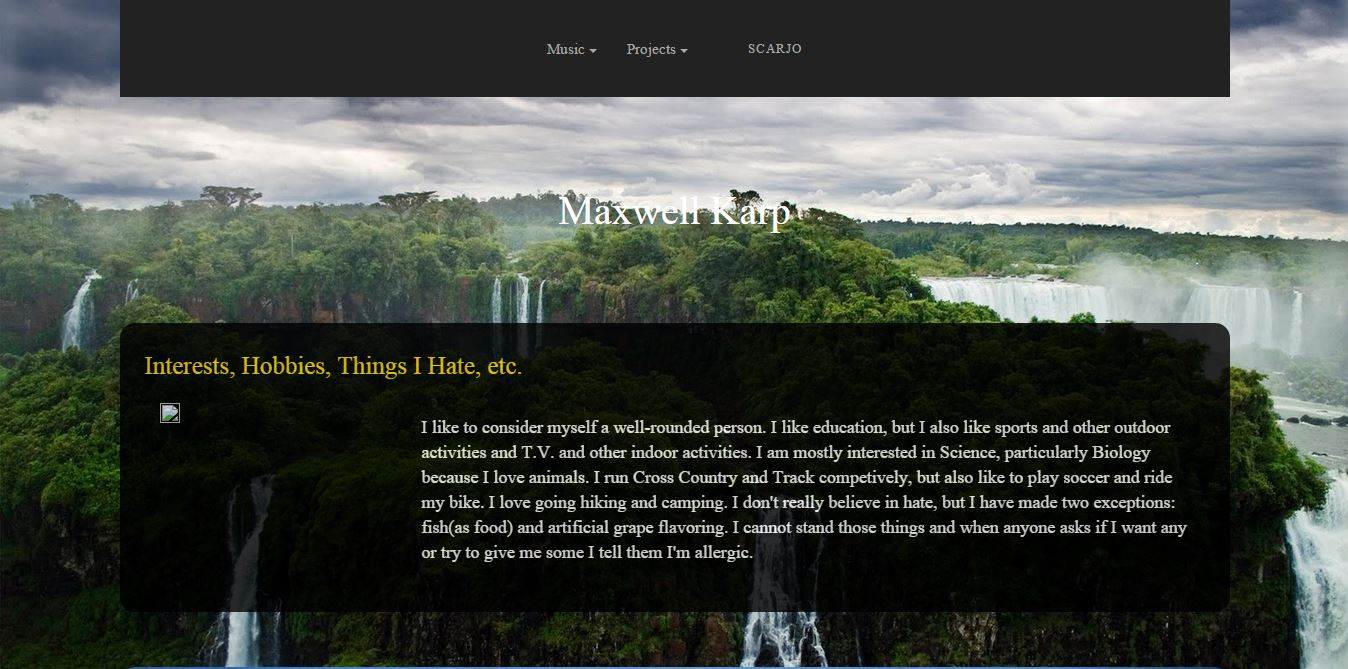
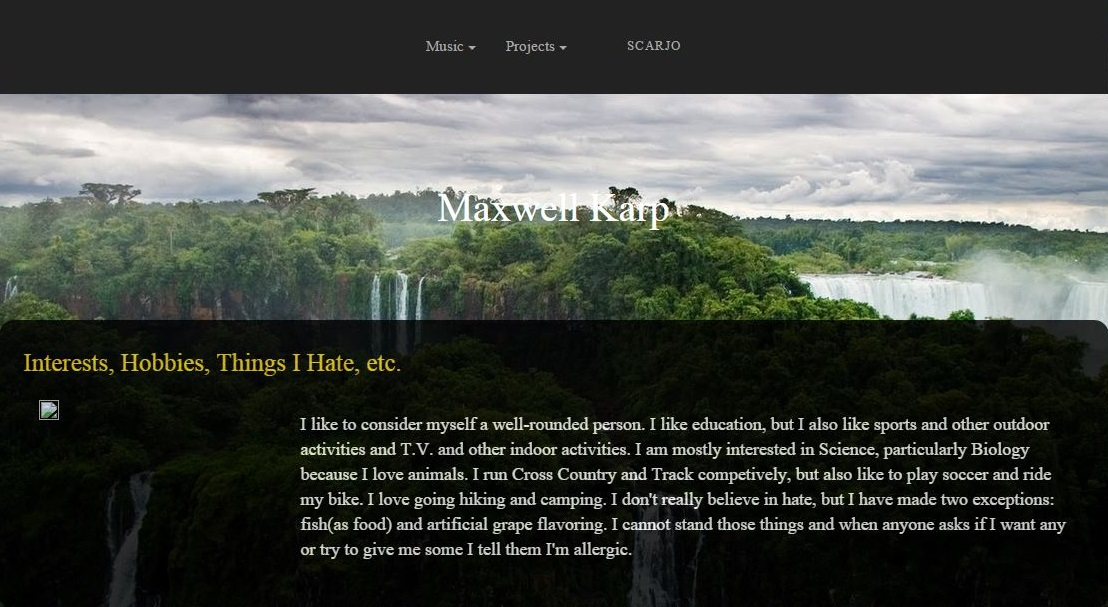
working on links

diff --git a/css/fin.css b/css/fin.css
@@ -1,7 +1,7 @@
 body{
 	text-align: center;
 	color: #FEF6C0;
-	background-image: url(../images/bird.jpg);
+	background-image: url(../images/snow5.jpg);
   	-webkit-background-size: cover;
 	-moz-background-size: cover;
 	-o-background-size: cover;
@@ -42,4 +42,15 @@ footer{
 
 #message{
 	font-size: 70px;
+}
+
+h1{
+	font-size: 90px;
+}
+
+#boton{
+	font-size: 50px;
+	width: 10%;
+	padding-bottom: 5px; 
+	padding-top: 5px;
 }

diff --git a/css/contact.css b/css/contact.css
@@ -234,3 +234,12 @@ p {
   margin: 0 auto;
   border: 1px dashed white;
 }
+
+.icn{
+	margin-bottom: 5px;
+	margin-top: 5px;
+	margin-left: 20px;
+	margin-right: 20px;
+	height:40px;
+	width:40px;
+}

diff --git a/controller/create-user.php b/controller/create-user.php
@@ -3,16 +3,15 @@
 <head>
   	<meta charset="UTF-8">
     <meta name="viewport" content="width=device-width, initial-scale=1.0">
-    <link type="text/css" rel="stylesheet"  href="/../css/bootstrap.css">
-    <link type="text/css" rel="stylesheet"  href="/../css/bootstrap-theme.css">
-    <link type="text/css" rel="stylesheet"  href="/../css/bootstrap-theme.css.map">
-    <link type="text/css" rel="stylesheet"  href="/../css/bootstrap.css.map">
-    <link type="text/css" rel="stylesheet"  href="/../css/fin.css">
+    <link type="text/css" rel="stylesheet"  href="../css/bootstrap.css">
+    <link type="text/css" rel="stylesheet"  href="../css/bootstrap-theme.css">
+    <link type="text/css" rel="stylesheet"  href="../css/bootstrap-theme.css.map">
+    <link type="text/css" rel="stylesheet"  href="../css/bootstrap.css.map">
+    <link type="text/css" rel="stylesheet"  href="../css/fin.css">
     <title>Maxwell Karp</title>
-	<title></title>
 </head>
 <header>
-	<h1>Thank You</h1>
+	<h1>Thank You!</h1>
 </header>
 
 <body>
@@ -41,7 +40,7 @@
 		//checks to see if the query is working
 		if ($query) {
 			echo "<div id='message'>";
-			echo "I will contact you ($name) as soon as possible";
+			echo "I will contact you as soon as possible.";
 			echo "</div>";
 		}
 		//if the query isnt working, says why not
@@ -53,7 +52,7 @@
 
 	<div class="links">
 		<ul>
-			<button type="button" class="btn btn-default btn-lg link">
+			<button type="button" class="btn btn-default btn-lg link" id="boton">
 				<a href="<?php echo $path . "Contact.php"?>"><span class="glyphicon glyphicon-home "></span></p> Back </a>
 			</button>
 		</ul>

diff --git a/Contact.php b/Contact.php
@@ -105,11 +105,16 @@
     <div id="collapseThree" class="panel-collapse collapse" role="tabpanel" aria-labelledby="headingThree">
       <div class="panel-body">
               
-          <a href="">INstagram</a>
-          <a href="">Snapchat</a>
-          <a href="">Skype</a>
-          <a href="">Github</a>
-          <a href="">youtube</a>
+          <a href="http://instagram.com/lambadoodle?ref=badge"><img class="icn" src="/LandingPage/images/ins.png"> </a>
+          <a href="http://instagram.com/lambadoodle?ref=badge"><img class="icn" src="/LandingPage/images/git.png"> </a>
+          <a href="http://instagram.com/lambadoodle?ref=badge"><img class="icn" src="/LandingPage/images/skype.png"> </a>
+          <a href="https://www.youtube.com/channel/UCG-JJVUuD8AhFUpYytsG2tw/feed?view_as=public"><img class="icn" src="/LandingPage/images/you.png"> </a>
+          <a class="btn btn-primary" data-toggle="collapse" href="#collapseExample" aria-expanded="false" aria-controls="collapseExample"><img class="icn" src="/LandingPage/images/snap.png"></a>
+          <div class="collapse" id="collapseExample">
+            <div class="well">
+              ...
+            </div>
+          </div>      
       </div>
     </div>
   </div>
